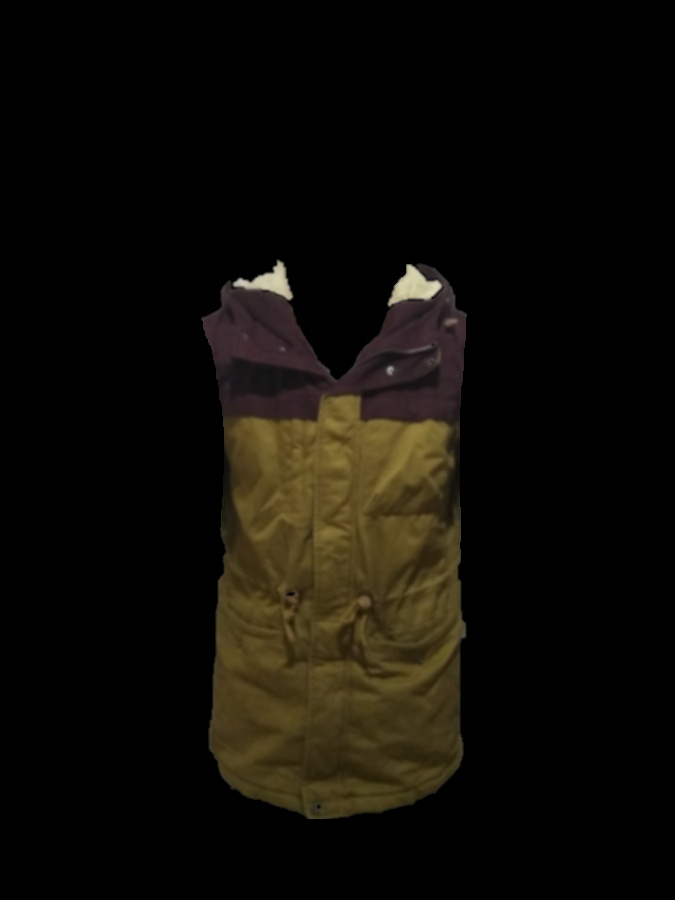
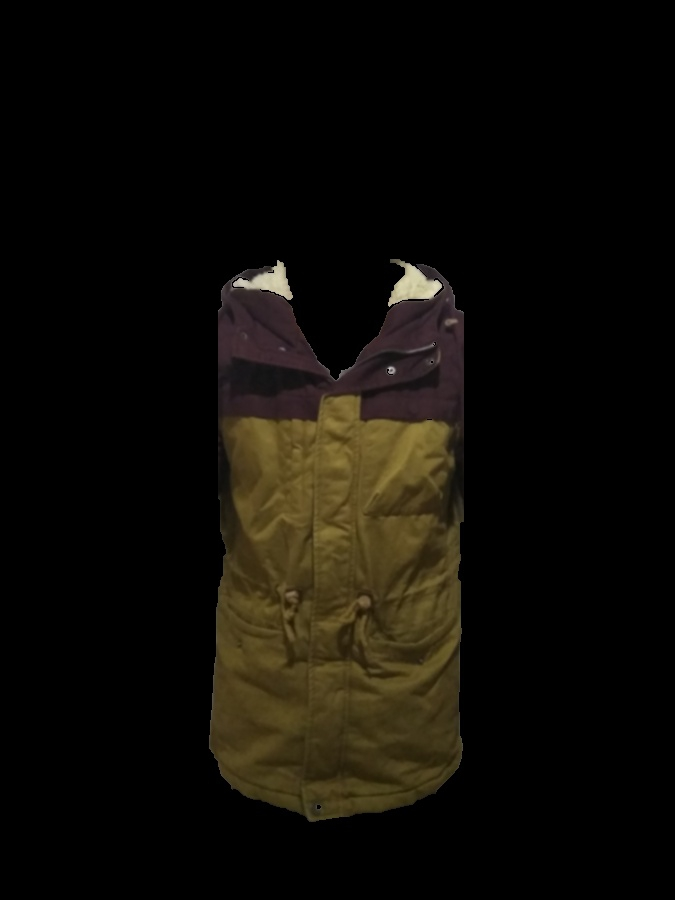
add key point detect, auto panel cut

diff --git a/clothinfo.cpp b/clothinfo.cpp
@@ -3,31 +3,242 @@
 clothinfo::clothinfo()
 {
     image.load(QString::fromStdString(grubcutboundaryPath));
+    boundchange();
     analysis();
+    borderline();
+    panelcut();
 }
 
 clothinfo::clothinfo(QImage image)
 {
     this->image=image;
+    boundchange();
     analysis();
+    borderline();
+    panelcut();
 }
 
+void clothinfo::boundchange(){
+    QImage newboundary(image);
+    for(int i=0;i<image.width();i++)
+        for(int j=0;j<image.height();j++){
+            QRgb rgb = image.pixel(i,j);
+            if((qRed(rgb)+qGreen(rgb)+qBlue(rgb))<700){
+                QRgb blank = qRgb(0,0,0);
+                newboundary.setPixel(i,j,blank);
+            }
+            else{
+                QRgb white = qRgb(255,255,255);
+                newboundary.setPixel(i,j,white);
+            }
+        }
+    newboundary.save(QString::fromStdString(newboundarypath),"JPG",100);
+    image.load(QString::fromStdString(newboundarypath));
+}
 void clothinfo::analysis(){
     int w = image.width(); //横轴
     int h = image.height();//纵轴
-   // for(int i=0;i<w;i++){
-       // for(int j=0;j<h;j++)
-           // cout<<qRed(image.pixel(i,j))<<" ";
-       // cout<<endl;
-  //  }
 
-    //服装左边部分计算
     for(int j=0;j<h;j++){
-        bool isfirst=true;
-        for(int i=w/2;i>=0;i--){
+        bool found=false;
+        for(int i=0;i<w/2;i++){
             QRgb rgb = image.pixel(i,j);
-            if((qRed(rgb)+qGreen(rgb)+qBlue(rgb))==0)//无关点
+            if((qRed(rgb)+qGreen(rgb)+qBlue(rgb))<700)
                 continue;
+            if((qRed(rgb)+qGreen(rgb)+qBlue(rgb))!=0){
+                leftuppoint.setX(i);
+                leftuppoint.setY(j);
+                found=true;
+            }
+        }
+        if(found==true) break;
+    }
+    for(int j=0;j<h;j++){
+        bool found=false;
+        for(int i=w/2;i<w;i++){
+            QRgb rgb = image.pixel(i,j);
+            if((qRed(rgb)+qGreen(rgb)+qBlue(rgb))<700)
+                continue;
+            if((qRed(rgb)+qGreen(rgb)+qBlue(rgb))!=0){
+                rightuppoint.setX(i);
+                rightuppoint.setY(j);
+                found=true;
+            }
+        }
+        if(found==true) break;
+    }
+
+    //cout<<leftuppoint.x()<<" "<<leftuppoint.y()<<" "<<rightuppoint.x()<< " "<<rightuppoint.y()<<endl;
+    int state=0;
+    int old=0;
+    int k=0;
+    for(int j=leftuppoint.y()+1;j<h;j++){
+        old=k;
+        k=0;
+        for(int i=0;i<w/2;i++){
+            QRgb rgb = image.pixel(i,j);
+            if((qRed(rgb)+qGreen(rgb)+qBlue(rgb))<700)
+                continue;
+            if((qRed(rgb)+qGreen(rgb)+qBlue(rgb))!=0){
+               k++;
+               i=i+w/100;
+            }
+        }
+        if(k>1&&old>1&&state==0)
+            state=1;
+        if(k==1&&old==1&&state==1)
+            state=2;
+        if(k>1&&old==1&&state==2){
+            leftcutpoint.setY(j);
+            for(int i=w/2;i>=0;i--){
+                QRgb rgb = image.pixel(i,j);
+                if((qRed(rgb)+qGreen(rgb)+qBlue(rgb))<700)
+                    continue;
+                if((qRed(rgb)+qGreen(rgb)+qBlue(rgb))!=0){
+                    leftcutpoint.setX(i);
+                    break;
+                }
+            }
+            break;
         }
     }
+    state=0;
+    old=0;
+    k=0;
+    for(int j=rightuppoint.y()+1;j<h;j++){
+        old=k;
+        k=0;
+        for(int i=w/2;i<w;i++){
+            QRgb rgb = image.pixel(i,j);
+            if((qRed(rgb)+qGreen(rgb)+qBlue(rgb))<700)
+                continue;
+            if((qRed(rgb)+qGreen(rgb)+qBlue(rgb))!=0){
+               k++;
+               i=i+w/100;
+            }
+        }
+        if(k>1&&old>1&&state==0)
+            state=1;
+        if(k==1&&old==1&&state==1)
+            state=2;
+        if(k>1&&old==1&&state==2){
+            rightcutpoint.setY(j);
+            for(int i=w/2;i<w;i++){
+                QRgb rgb = image.pixel(i,j);
+                if((qRed(rgb)+qGreen(rgb)+qBlue(rgb))<700)
+                    continue;
+                if((qRed(rgb)+qGreen(rgb)+qBlue(rgb))!=0){
+                    rightcutpoint.setX(i);
+                    break;
+                }
+            }
+            break;
+        }
+    }
+    /*
+    cout<<leftcutpoint.x()<<" "<<leftcutpoint.y()<<endl;
+    QRgb rgb = image.pixel(leftcutpoint.x(),leftcutpoint.y());
+    cout<<qRed(rgb)+qGreen(rgb)+qBlue(rgb)<< " ";
+    cout<<rightcutpoint.x()<<" "<<rightcutpoint.y()<<endl;
+    QRgb rgb = image.pixel(rightcutpoint.x(),rightcutpoint.y());
+    cout<<qRed(rgb)+qGreen(rgb)+qBlue(rgb)<< " ";
+    for(int i=0;i<w;i++){
+        for(int j=0;j<h;j++){
+            QRgb rgb = image.pixel(i,j);
+            cout<<qRed(rgb)+qGreen(rgb)+qBlue(rgb)<< " ";
+        }
+        cout<<endl;
+    }
+    */
+}
+
+void clothinfo::borderline(){
+     //初始化
+    leftborder = new int[image.height()];
+    rightborder = new int[image.height()];
+    for(int i=0;i<image.height();i++){
+        leftborder[i]=0;
+        rightborder[i]=0;
+    }
+    //leftborderline generate
+    for(int j=leftuppoint.y();j<image.height();j++){
+        if(j<=leftcutpoint.y())
+            leftborder[j]=leftcutpoint.x();
+        else{
+            for(int i=image.width()/2;i>=0;i--){
+                QRgb rgb = image.pixel(i,j);
+                if((qRed(rgb)+qGreen(rgb)+qBlue(rgb))<700)
+                    continue;
+                if((qRed(rgb)+qGreen(rgb)+qBlue(rgb))!=0){
+                    if(i>leftborder[j-1])
+                        leftborder[j]=leftborder[j-1];
+                    else
+                        leftborder[j]=i-1;
+                    break;
+                }
+            }
+            if(leftborder==0)
+                leftborder[j]=leftborder[j-1];
+        }
+    }
+    /*for(int j=leftuppoint.y();j<image.height();j++){
+        cout<<leftborder[j]<<" ";
+    }*/
+    //rightborderline generate
+    for(int j=rightuppoint.y();j<image.height();j++){
+        if(j<=rightcutpoint.y())
+            rightborder[j]=rightcutpoint.x();
+        else{
+            for(int i=image.width()/2;i<image.width();i++){
+                QRgb rgb = image.pixel(i,j);
+                if((qRed(rgb)+qGreen(rgb)+qBlue(rgb))<700)
+                    continue;
+                if((qRed(rgb)+qGreen(rgb)+qBlue(rgb))!=0){
+                    if(i<rightborder[j-1])
+                        rightborder[j]=rightborder[j-1];
+                    else
+                        rightborder[j]=i+1;
+                    break;
+                }
+            }
+            if(rightborder[j]==0)
+                rightborder[j]=rightborder[j-1];
+        }
+    }
+    /*
+    for(int j=rightuppoint.y();j<image.height();j++){
+        cout<<rightborder[j]<<" ";
+    }*/
+
+}
+void clothinfo::panelcut(){
+    QImage newimage;
+    newimage.load(QString::fromStdString(grubcutResultPath));
+    QImage leftpart(newimage);
+    QImage middlepart(newimage);
+    QImage rightpart(newimage);
+    for(int i=0;i<newimage.width();i++){
+        for(int j=0;j<newimage.height();j++){
+            QRgb rgb = newimage.pixel(i,j);
+            if((qRed(rgb)+qGreen(rgb)+qBlue(rgb))==0)//无关点
+                continue;
+            QRgb reg = qRgb(0,0,0);
+            if(i<leftborder[j]){  //the point is in leftpart
+                middlepart.setPixel(i,j,reg);
+                rightpart.setPixel(i,j,reg);
+            }else if(i>rightborder[j]){//the point is in rightpart
+                leftpart.setPixel(i,j,reg);
+                middlepart.setPixel(i,j,reg);
+            }
+            else{   //the point is in middlepart
+                leftpart.setPixel(i,j,reg);
+                rightpart.setPixel(i,j,reg);
+            }
+
+        }
+    }
+    //保存分割后的部分
+    leftpart.save(QString::fromStdString(leftpartpath),"JPG",100);
+    middlepart.save(QString::fromStdString(middlepartpath),"JPG",100);
+    rightpart.save(QString::fromStdString(rightpartpath),"JPG",100);
 }

diff --git a/basic.h b/basic.h
@@ -16,4 +16,5 @@ const string leftpartpath="C:\\Users\\lenovo-pc\\Desktop\\3DGarment\\3DGarment\\
 const string middlepartpath="C:\\Users\\lenovo-pc\\Desktop\\3DGarment\\3DGarment\\middlepart.jpg";
 const string rightpartpath="C:\\Users\\lenovo-pc\\Desktop\\3DGarment\\3DGarment\\rightpart.jpg";
 const string testpath="C:\\Users\\lenovo-pc\\Desktop\\3DGarment\\3DGarment\\test.jpg";
+const string newboundarypath="C:\\Users\\lenovo-pc\\Desktop\\3DGarment\\3DGarment\\boundarynew.jpg";
 #endif // BASIC_H

diff --git a/clothinfo.h b/clothinfo.h
@@ -11,6 +11,9 @@ public:
     clothinfo();
     clothinfo(QImage image);
     void analysis();
+    void boundchange();
+    void borderline();
+    void panelcut();
 
     QImage image;
     QPointF leftuppoint;
@@ -20,6 +23,9 @@ public:
     float shoulderwidth;
     float collarwidth;
     float proportion; //  collarwidth/shoulderwidth
+private:
+    int* leftborder;
+    int* rightborder;
 
 };
 
